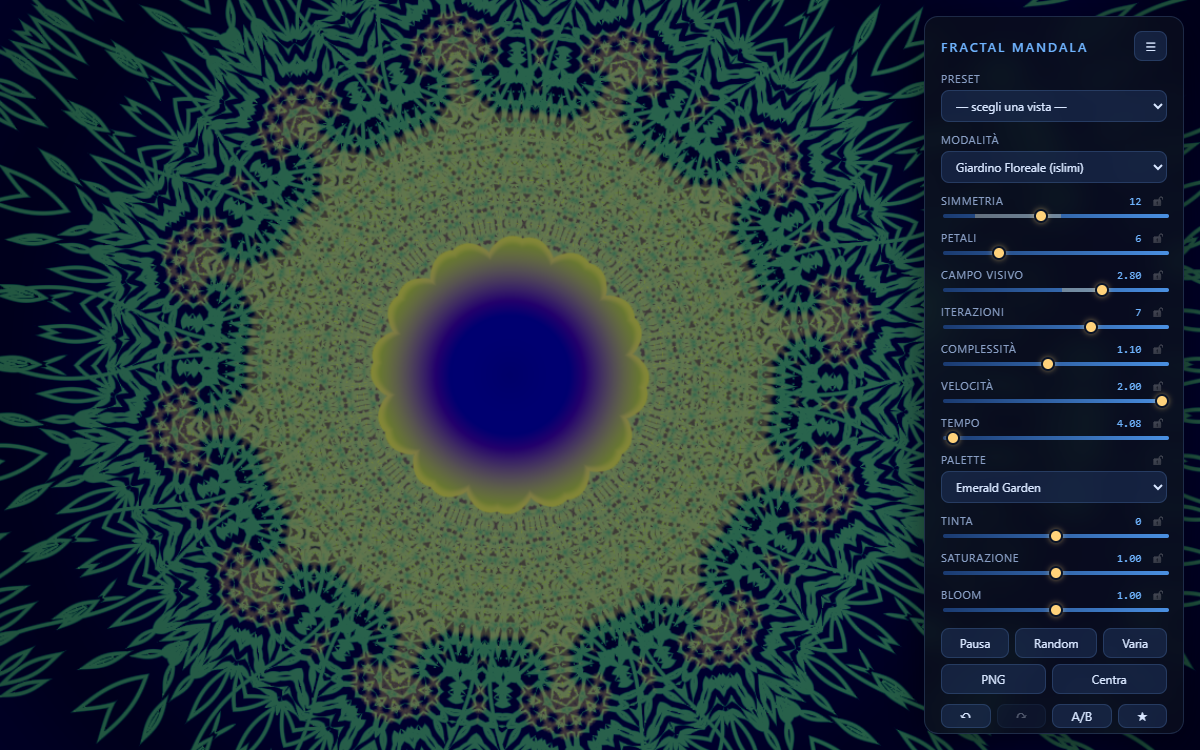
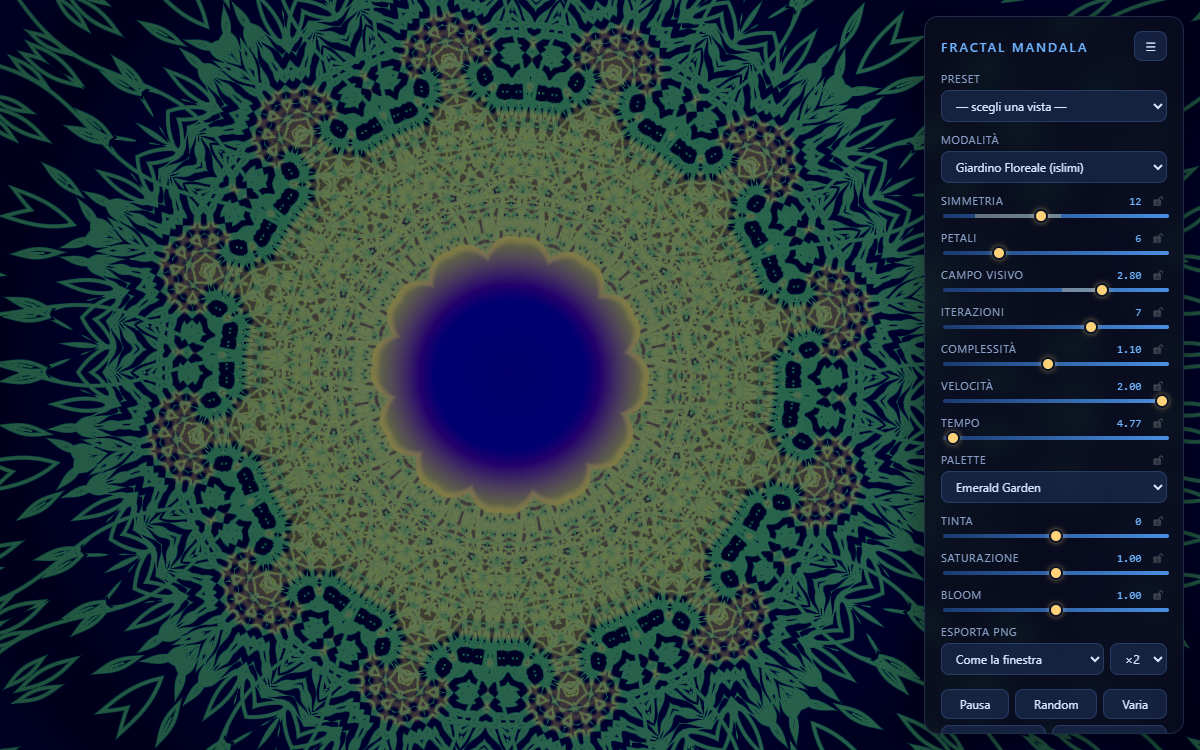
feat: implement PNG export functionality with customizable size and sampling options

diff --git a/main.js b/main.js
@@ -46,6 +46,7 @@
 
   // ---------- GL program (rebuildable, for context loss) ----------
   let prog = null, buf = null, U = null, ready = false, hasDerivatives = false;
+  let maxDim = 4096;   // largest drawing buffer this GL will accept, read in buildGL
 
   function compile(type, src, label) {
     const sh = gl.createShader(type);
@@ -111,6 +112,11 @@
     ]) {
       U[name] = gl.getUniformLocation(prog, "u_" + name);
     }
+
+    // The hard ceiling on an export: a drawing buffer wider than this is not a
+    // slow render, it is a GL error and a blank PNG.
+    const dims = gl.getParameter(gl.MAX_VIEWPORT_DIMS);
+    maxDim = Math.min(dims ? Math.min(dims[0], dims[1]) : 4096, 16384);
 
     ready = true;
     if (!hasDerivatives) {
@@ -337,15 +343,21 @@
 
   const touchInput = () => { interactUntil = performance.now() + SETTLE_MS; };
 
-  function setBuffer(scale) {
-    const dpr = Math.min(window.devicePixelRatio || 1, DPR_CAP) * scale;
-    const w = Math.max(1, Math.round(window.innerWidth  * dpr));
-    const h = Math.max(1, Math.round(window.innerHeight * dpr));
+  // The one place the drawing buffer changes size. The export goes through it
+  // too, which is why it takes pixels and not a scale.
+  function setBufferExact(w, h) {
+    w = Math.max(1, Math.round(w));
+    h = Math.max(1, Math.round(h));
     if (w === bufW && h === bufH) return;
     canvas.width  = bufW = w;
     canvas.height = bufH = h;
     gl.viewport(0, 0, w, h);
     markDirty();
+  }
+
+  function setBuffer(scale) {
+    const dpr = Math.min(window.devicePixelRatio || 1, DPR_CAP) * scale;
+    setBufferExact(window.innerWidth * dpr, window.innerHeight * dpr);
   }
 
   function resize(force) {
@@ -563,23 +575,101 @@
     $("panel").classList.add("collapsed");
   }
 
+  // ---------- PNG export ----------
+  // The window is not the poster. The export gives itself a drawing buffer of
+  // the size you asked for — the screen has nothing to do with it — optionally
+  // renders it larger still and boxes it down, which is the only antialiasing
+  // that helps where `FW()` has already given up: the filaments of modes 0, 2
+  // and 3 at high iteration counts.
+  //
+  // Rendering bigger is not only bigger. Modes 6 and 7 drop each IFS level once
+  // its step falls under a pixel, so more pixels means more levels survive: a
+  // 4096 px export of the mihrab has vine the screen never showed.
+  //
+  // Two ceilings are real, and they clamp the *sampling* rather than the size
+  // you asked for: `maxDim` (past it GL fails and the PNG comes out blank) and
+  // memory, four bytes a pixel for the buffer plus the same again for the copy
+  // the encoder gets.
+  const EXPORT_MAX_PIXELS = 80e6;
+
+  function exportPlan() {
+    const longEdge = parseInt(($("exportSize") || {}).value || "0", 10) || 0;
+    const wanted   = clamp(parseInt(($("exportSS") || {}).value || "1", 10) || 1, 1, 4);
+    const vw = Math.max(1, window.innerWidth);
+    const vh = Math.max(1, window.innerHeight);
+
+    let w, h;
+    if (longEdge > 0) {
+      // The window's aspect is kept: the shader maps uv on min(resolution), so
+      // a different shape would reframe the scene instead of enlarging it.
+      const k = longEdge / Math.max(vw, vh);
+      w = Math.round(vw * k);
+      h = Math.round(vh * k);
+    } else {
+      const dpr = Math.min(window.devicePixelRatio || 1, DPR_CAP);
+      w = Math.round(vw * dpr);
+      h = Math.round(vh * dpr);
+    }
+
+    // If even one sample per pixel does not fit, the requested size itself has
+    // to come down — and that the user must be told about.
+    let clamped = false;
+    const fits = s => Math.max(w, h) * s <= maxDim && w * h * s * s <= EXPORT_MAX_PIXELS;
+    while (w > 16 && !fits(1)) { w = Math.round(w * 0.85); h = Math.round(h * 0.85); clamped = true; }
+    let ss = wanted;
+    while (ss > 1 && !fits(ss)) ss -= 1;
+
+    return { w, h, ss, clamped, downgraded: ss < wanted };
+  }
+
   function saveScreenshot() {
     if (!ready) return;
-    // Full resolution whatever the adaptive scale is doing, then draw and
-    // snapshot within the same task: without preserveDrawingBuffer the
-    // backbuffer is only guaranteed valid until the browser composites.
-    interactUntil = 0;
-    setBuffer(1);
+    const plan = exportPlan();
+    // The notice has to be on screen before the export locks the main thread,
+    // which at 4096×2 is a second or more: hence one frame of delay.
+    showNotice(`Esporto ${plan.w}×${plan.h}${plan.ss > 1 ? ` a ×${plan.ss}` : ""}…`);
+    requestAnimationFrame(() => runExport(plan));
+  }
+
+  function runExport(plan) {
+    interactUntil = 0;                       // no adaptive downscaling here
+    setBufferExact(plan.w * plan.ss, plan.h * plan.ss);
     dirty = true;
     render();
-    canvas.toBlob(b => {
-      if (!b) return;
+
+    // Copy into a 2D canvas in the same task as the draw. Without
+    // preserveDrawingBuffer the backbuffer is only guaranteed valid until the
+    // browser composites, and drawImage is what makes the pixels ours — after
+    // this line the GL buffer can go back to being window-sized while the PNG
+    // encoder takes its time.
+    const off = document.createElement("canvas");
+    off.width  = plan.w;
+    off.height = plan.h;
+    const ctx2 = off.getContext("2d");
+    ctx2.imageSmoothingEnabled = true;
+    ctx2.imageSmoothingQuality = "high";
+    ctx2.drawImage(canvas, 0, 0, plan.w, plan.h);
+
+    resize(true);
+
+    off.toBlob(b => {
+      if (!b) {
+        showNotice("Esportazione fallita: il browser non ha prodotto il PNG.", { timeout: 5000 });
+        return;
+      }
       const a = document.createElement("a");
       const url = URL.createObjectURL(b);
       a.href = url;
-      a.download = `fractal_m${state.mode}_s${state.symmetry}_${Date.now()}.png`;
+      a.download = `fractal_m${state.mode}_s${state.symmetry}_${plan.w}x${plan.h}_${Date.now()}.png`;
       a.click();
       setTimeout(() => URL.revokeObjectURL(url), 1000);
+
+      const why = plan.clamped
+        ? ` — ridotto: questa GPU non regge oltre ${maxDim} px di lato`
+        : plan.downgraded
+          ? " — sovracampionamento ridotto per stare nei limiti della GPU"
+          : "";
+      showNotice(`PNG ${plan.w}×${plan.h} salvato${why}.`, { timeout: why ? 6000 : 2600 });
     });
   }
 

diff --git a/index.html b/index.html
@@ -158,6 +158,25 @@
       <input type="range" id="bloom" min="0" max="2" step="0.01" value="0.85" />
     </div>
 
+    <!-- Export size is independent of the window; ×N renders that many samples
+         per pixel and boxes them down. See exportPlan() in main.js. -->
+    <div class="ctl wide">
+      <div class="head"><label class="name" for="exportSize">Esporta PNG</label></div>
+      <div class="pair">
+        <select id="exportSize">
+          <option value="0" selected>Come la finestra</option>
+          <option value="2048">2048 px di lato lungo</option>
+          <option value="4096">4096 px di lato lungo</option>
+          <option value="8192">8192 px di lato lungo</option>
+        </select>
+        <select id="exportSS" title="Campioni per pixel: più alto = bordi più puliti, export più lento">
+          <option value="1">×1</option>
+          <option value="2" selected>×2</option>
+          <option value="3">×3</option>
+        </select>
+      </div>
+    </div>
+
     <div class="row">
       <button id="pause">Pausa</button>
       <button id="randomize">Random</button>

diff --git a/style.css b/style.css
@@ -267,6 +267,14 @@ select {
   width: 100%;
 }
 
+/* Two selects that belong to one control: size and sampling of the export. */
+.pair {
+  display: flex;
+  gap: 6px;
+}
+.pair select:first-child { flex: 1 1 auto; min-width: 0; }
+.pair select:last-child  { flex: 0 0 auto; width: auto; }
+
 /* ---- Narrow screens ----------------------------------------------------
    The 260px panel pinned to the top right eats a phone's whole viewport, so
    below this breakpoint it becomes a bottom sheet: full width, capped height,

diff --git a/CLAUDE.md b/CLAUDE.md
@@ -81,7 +81,7 @@ Non duplica le inquadrature, le importa dalla prima e le rinomina.
   velocità 0 (vale anche per le modalità 8 e 9). Un preset nuovo che dipende
   dall'orientamento deve fare lo stesso.
 - **Un preset nominato è un permalink, non un secondo tipo di stato.**
-  `NAMED_PRESETS` in [main.js](main.js#L289) tiene stringhe nello stesso formato
+  `NAMED_PRESETS` in [main.js](main.js#L295) tiene stringhe nello stesso formato
   che `serialize()` scrive, e sceglierne una passa per `deserialize` +
   `applyState`, cioè per la stessa strada dell'hash. Non aggiungere un percorso
   parallelo che scriva su `state`: si perderebbero il ri-clamp delle iterazioni
@@ -95,13 +95,31 @@ Non duplica le inquadrature, le importa dalla prima e le rinomina.
   decidere se aprirlo o no al caricamento. Sono due linguaggi, non c'è modo di
   condividerne una sola: se la sposti, spostala in entrambi.
 - **`preserveDrawingBuffer` è disattivato di proposito** (costa a ogni frame).
-  L'export PNG disegna e cattura nello stesso task: se tocchi `saveScreenshot`
-  in [main.js](main.js#L566), quell'invariante va mantenuta.
+  Quindi l'export deve disegnare e *copiare* nello stesso task: `runExport()` in
+  [main.js](main.js#L634) fa `render()` e subito un `drawImage` su una canvas 2D,
+  ed è quella copia che poi va a `toBlob`. Passare la canvas GL direttamente
+  all'encoder funziona per caso — finché nessuno ridimensiona il buffer prima
+  che l'encoder legga. Se tocchi l'export, la copia resta.
+- **L'export non ha niente a che vedere con la finestra.** `exportPlan()` in
+  [main.js](main.js#L595) calcola una dimensione a partire dal lato lungo scelto
+  nel pannello (conservando l'aspetto della finestra, perché lo shader mappa uv
+  su `min(resolution)` e un rapporto diverso reinquadrerebbe la scena invece di
+  ingrandirla) e la moltiplica per i campioni per pixel; `setBufferExact()` dà a
+  GL quel buffer, e la riduzione a valle è l'antialiasing. Due tetti sono veri e
+  clampano il *campionamento*, non la dimensione richiesta: `maxDim` — letto da
+  `MAX_VIEWPORT_DIMS` in `buildGL()`, oltre il quale GL non disegna e il PNG
+  esce vuoto — e `EXPORT_MAX_PIXELS`, che è memoria. Se anche a ×1 non ci sta,
+  allora scende la dimensione, e in quel caso il notice lo dice.
+- **Rendere più grande non è solo più grande.** Le modalità 6 e 7 dissolvono
+  ogni livello IFS quando il suo passo scende sotto il pixel: più pixel = più
+  livelli sopravvivono, quindi un export a 4096 px del mihrab ha viticci che
+  sullo schermo non c'erano. Vale la pena saperlo prima di inseguire una
+  differenza fra schermo e PNG credendola un bug.
 - **`MODE_ITER_MAX`** in [main.js](main.js#L148) deve restare allineato ai bound
   dei loop nello shader. Se cambi il `for (int i = 0; i < N; i++)` di una
   modalità, aggiorna anche la voce corrispondente, altrimenti lo slider ha una
   coda inerte.
-- **`MODE_UI`** in [main.js](main.js#L210) dice cosa ogni modalità fa degli
+- **`MODE_UI`** in [main.js](main.js#L216) dice cosa ogni modalità fa degli
   slider, e `syncPanel()` lo applica: `inert` spegne e sbiadisce un controllo
   che lo shader non legge, `names` gli dà il nome che quella modalità gli dà
   davvero (in modalità 8 «Petali» è il seme del piatto), `upright` marca le
@@ -126,12 +144,12 @@ Non duplica le inquadrature, le importa dalla prima e le rinomina.
   sessanta volte al secondo. Oltre i 300 s la manopola si ferma in fondo e il
   numero continua: la manopola può bloccarsi, il readout non può mentire.
 - **`t`, `h` e `k` sono arrivati dopo i primi permalink condivisi.** `HASH_LATE`
-  in [main.js](main.js#L597) dà loro un valore di default quando mancano
+  in [main.js](main.js#L687) dà loro un valore di default quando mancano
   dall'hash, così un vecchio URL rende come rendeva invece di ereditare tinta e
   orologio dalla vista precedente. Ogni chiave nuova va aggiunta lì.
 - **La traccia del campo visivo è esponenziale.** `min`/`max` di `#zoom`
   nell'HTML sono unità di traccia, non valori di zoom: la conversione sta tutta
-  in `SLIDERS`, `toSlider` e `fromSlider` ([main.js](main.js#L158)), e chi chiama
+  in `SLIDERS`, `toSlider` e `fromSlider` ([main.js](main.js#L164)), e chi chiama
   `setControl` parla sempre in valori. Effetto collaterale accettato: un valore
   che arriva dall'hash viene riquantizzato dello 0.2% circa (`z=2.8` torna
   `2.801`). Se aggiungi un'altra traccia logaritmica, dichiarala lì e basta.
@@ -191,13 +209,14 @@ Non duplica le inquadrature, le importa dalla prima e le rinomina.
   aggiungi qualcosa fuori, tienilo entro il finale di bordo (r ≈ 1.46), che è
   ciò che il campo visivo 3.2 del preset inquadra.
 - **La risoluzione cala mentre la scena si muove.** `setBuffer()` in
-  [main.js](main.js#L340) ridimensiona il drawing buffer: `renderScale` scende
+  [main.js](main.js#L348) ridimensiona il drawing buffer: `renderScale` scende
   fino a 0.45 quando le frame superano i 24 ms e risale quando ne bastano 13, ma
   solo durante l'animazione, un drag o uno slider. Passati 220 ms dall'ultimo
   input il buffer torna a piena risoluzione e disegna una frame nitida. Quindi
   ogni nuovo percorso di input deve chiamare `touchInput()` accanto a
   `markDirty()`, altrimenti manipola l'immagine grande; e chi cattura pixel
-  (`saveScreenshot`) deve forzare `setBuffer(1)` prima di disegnare.
+  (`runExport`) si dà il buffer che vuole con `setBufferExact()` e poi rimette a
+  posto con `resize(true)`.
 - **Velocità 0 vuol dire nessuna frame, non frame lente.** `frame()` avanza
   `state.time` e sporca la scena solo se `state.speed !== 0`: le modalità 7, 8 e
   9 sono ferme per preset e senza quel controllo ridisegnano un'immagine

diff --git a/PROJECT_INDEX.md b/PROJECT_INDEX.md
@@ -33,8 +33,9 @@ con uno stub.
 
 Elementi con id: `gl` (canvas), `notice`, `panel`, `toggle`, `controls`,
 `preset`, `mode`, `symmetry`, `petals`, `zoom`, `iterations`, `complexity`,
-`speed`, `time`, `palette`, `hue`, `sat`, `bloom`, `pause`, `randomize`, `vary`,
-`screenshot`, `reset`, `undo`, `redo`, `ab`, `saveview`.
+`speed`, `time`, `palette`, `hue`, `sat`, `bloom`, `exportSize`, `exportSS`,
+`pause`, `randomize`, `vary`, `screenshot`, `reset`, `undo`, `redo`, `ab`,
+`saveview`.
 
 Ogni controllo è un `<div class="ctl">` con dentro una `.head` — il nome
 (`<label class="name" for>`, riscritto per modalità da `syncPanel()`), il valore
@@ -89,7 +90,7 @@ IIFE che espone `window.FRACTAL_SHADER = { VERT, FRAG_BODY }`. `FRAG_BODY`
 L'ordine delle funzioni nel file non segue quello delle modalità: il dispatch in
 `main()` è la sola fonte affidabile.
 
-## [main.js](main.js) — 891 righe
+## [main.js](main.js) — 981 righe
 
 IIFE in `"use strict"`. Sezioni, nell'ordine in cui compaiono:
 
@@ -99,18 +100,18 @@ IIFE in `"use strict"`. Sezioni, nell'ordine in cui compaiono:
 | [29](main.js#L29) | Contesto GL | `GL_OPTS`, `getContext`, uscita se WebGL manca |
 | [47](main.js#L47) | Programma GL | `compile()`, `buildGL()`, header `FW()`, uniform in `U` |
 | [129](main.js#L129) | Context loss | listener `webglcontextlost` / `restored` |
-| [142](main.js#L142) | Costanti | `ZOOM_MIN/MAX`, `MODE_ITER_MAX`, `SLIDERS` + `toSlider`/`fromSlider`, `MODE_UI`, `clamp` |
-| [236](main.js#L236) | Stato | oggetto `state`, `modePresets` per modalità |
-| [289](main.js#L289) | `NAMED_PRESETS` | le viste nominate del menu: permalink + `t` iniziale |
-| [324](main.js#L324) | Resize + risoluzione adattiva | `setBuffer()`, `renderScale`, `touchInput()` |
-| [358](main.js#L358) | UI | `$`, `setControl`, `bindRange`, i bottoni, Random per modalità |
-| [426](main.js#L426) | Pannello adattivo | `sliders`, `syncPanel()`, `applyMode()` |
-| [455](main.js#L455) | Banco di regolazione | crea `tuning` da `tuning.js`, o lo stub se manca |
-| [566](main.js#L566) | Screenshot | `saveScreenshot` — piena risoluzione, cattura nello stesso task |
-| [586](main.js#L586) | Permalink | `serialize`/`deserialize`/`applyState`/`persist`, `HASH_MAP`, restore |
-| [685](main.js#L685) | Menu dei preset | riempie `#preset` e installa la vista scelta |
-| [711](main.js#L711) | Interazione | `clientToUV`, `panBy`, `zoomAt`, pointer, pinch, wheel |
-| [818](main.js#L818) | Render loop | `render()` on-demand, `adapt()` e `frame()` |
+| [148](main.js#L148) | Costanti | `ZOOM_MIN/MAX`, `MODE_ITER_MAX`, `SLIDERS` + `toSlider`/`fromSlider`, `MODE_UI`, `clamp` |
+| [242](main.js#L242) | Stato | oggetto `state`, `modePresets` per modalità |
+| [295](main.js#L295) | `NAMED_PRESETS` | le viste nominate del menu: permalink + `t` iniziale |
+| [330](main.js#L330) | Resize + risoluzione adattiva | `setBufferExact()`/`setBuffer()`, `renderScale`, `touchInput()` |
+| [370](main.js#L370) | UI | `$`, `setControl`, `bindRange`, i bottoni, Random per modalità |
+| [438](main.js#L438) | Pannello adattivo | `sliders`, `syncPanel()`, `applyMode()` |
+| [467](main.js#L467) | Banco di regolazione | crea `tuning` da `tuning.js`, o lo stub se manca |
+| [578](main.js#L578) | Export PNG | `exportPlan()`, `runExport()` — dimensione scelta, sovracampionamento, copia nello stesso task |
+| [676](main.js#L676) | Permalink | `serialize`/`deserialize`/`applyState`/`persist`, `HASH_MAP`, restore |
+| [775](main.js#L775) | Menu dei preset | riempie `#preset` e installa la vista scelta |
+| [801](main.js#L801) | Interazione | `clientToUV`, `panBy`, `zoomAt`, pointer, pinch, wheel |
+| [908](main.js#L908) | Render loop | `render()` on-demand, `adapt()` e `frame()` |
 
 Concetti chiave: `dirty`/`markDirty()` (si disegna solo quando serve),
 `renderScale` (il buffer si restringe mentre la scena si muove),
@@ -139,7 +140,7 @@ questo che l'annulla è una pila di stringhe.
 | [276](tuning.js#L276) | `applyZones()` — dipinge la banda della zona utile sulla traccia |
 | [297](tuning.js#L297) | Bottoni e tasti — Ctrl+Z, Ctrl+Maiusc+Z, B, V |
 
-## [style.css](style.css) — 316 righe
+## [style.css](style.css) — 324 righe
 
 Variabili di tema in `:root` ([1](style.css#L1)). Blocchi: `#gl`
 ([22](style.css#L22)), `#notice` e la variante `.fatal` ([39](style.css#L39)),

diff --git a/README.md b/README.md
@@ -74,10 +74,11 @@ Interazione sul canvas:
 | rotella / pinch | zoom ancorato al puntatore |
 | doppio click | fullscreen |
 
-Il pannello a destra si apre e chiude col pulsante `☰`. `PNG` esporta il frame
-corrente, `Random` genera una combinazione di parametri, `Varia` ne sposta di
-poco quelli che hai lasciato liberi, `Centra` azzera pan e rotazione. La riga
-sotto — `↶ ↷ A/B ★` — è il banco di regolazione, qui sotto.
+Il pannello a destra si apre e chiude col pulsante `☰`. `PNG` esporta l'immagine
+alla dimensione scelta nel menu sopra, `Random` genera una combinazione di
+parametri, `Varia` ne sposta di poco quelli che hai lasciato liberi, `Centra`
+azzera pan e rotazione. La riga sotto — `↶ ↷ A/B ★` — è il banco di
+regolazione, più giù.
 
 In cima al pannello c'è **Preset**: una dozzina di viste già composte, una per
 modalità più qualche variante. Sceglierne una installa lo stato completo —
@@ -136,6 +137,28 @@ vuoi tu (le modalità 0, 2, 3 e 4 hanno bisogno di qualche secondo prima di
 risolvere), e **Tinta** e **Saturazione** ritoccano il colore *dopo* la palette,
 in tutte e dieci le modalità. Nelle due a inchiostro la tinta muove anche la
 carta: lo stesso piatto su carta calda o fredda sono due poster diversi.
+
+### Esportare un PNG
+
+Il menu **Esporta PNG** decide due cose diverse.
+
+La prima è la dimensione, e non ha niente a che vedere con la finestra: «come la
+finestra» scrive quello che vedi, gli altri valori sono il lato lungo del file —
+fino a 8192 px — con l'aspetto della finestra conservato. Non è solo un
+ingrandimento: le modalità 6 e 7 fanno sparire ogni livello di ricorsione quando
+il suo passo scende sotto il pixel, quindi un mihrab a 4096 px ha viticci che
+sullo schermo non c'erano.
+
+La seconda è **×1 / ×2 / ×3**, i campioni per pixel: si disegna quel tanto più
+grande e si riduce. Sulle modalità a inchiostro cambia poco — quelle hanno già
+un antialiasing analitico — ma su Kaleido IFS, Girih e Julia a molte iterazioni
+è la differenza fra filamenti continui e una manciata di pixel isolati. Il
+valore predefinito è ×2.
+
+Un export grande blocca la pagina per qualche secondo: è normale, e il messaggio
+in basso dice a che dimensione sta lavorando. Se la GPU non regge la misura
+richiesta, l'app abbassa prima i campioni e poi, solo se serve, la dimensione —
+e in quel caso te lo scrive invece di darti un file grande e vuoto.
 
 ### Su schermo stretto
 

diff --git a/roadmap.md b/roadmap.md
@@ -74,8 +74,14 @@ di ereditarle dalla vista precedente.
 
 ## Milestone: Qualità del rendering
 
-- [ ] Supersampling opzionale per l'export PNG <!-- size: M -->
-- [ ] Export a risoluzione scelta, indipendente dalla finestra <!-- size: M -->
+L'export non passa più per la finestra: `exportPlan()` sceglie la dimensione e i
+campioni per pixel, `setBufferExact()` dà a GL il buffer che serve e la riduzione
+a valle è l'antialiasing. I due tetti veri — `MAX_VIEWPORT_DIMS` e la memoria —
+abbassano prima il campionamento e solo in ultima istanza la dimensione, con un
+avviso. Restano le due voci di prestazione, che vogliono hardware vero.
+
+- [x] Supersampling opzionale per l'export PNG <!-- size: M; done: 2026-09-04 -->
+- [x] Export a risoluzione scelta, indipendente dalla finestra <!-- size: M; done: 2026-09-04 -->
 - [ ] Limitare il costo per frame sulle modalità pesanti a molte iterazioni <!-- size: L -->
 - [ ] Verifica su GPU integrata e su mobile <!-- size: M -->
 
